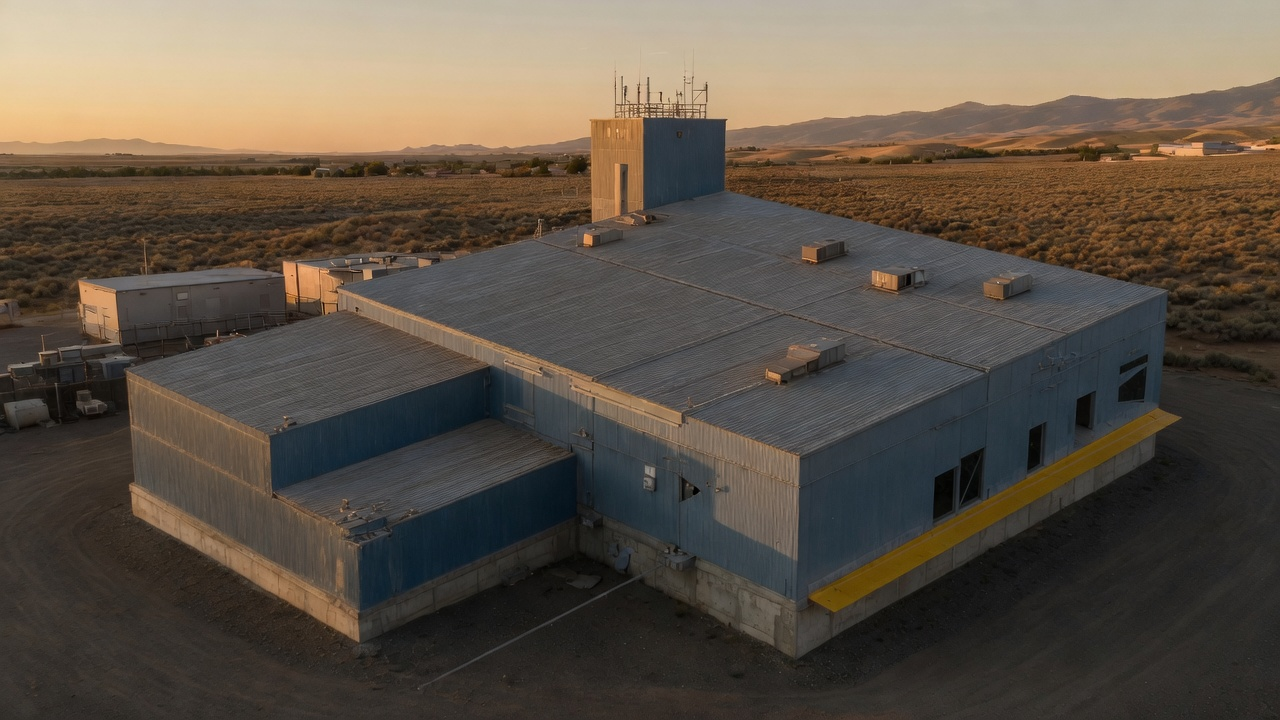
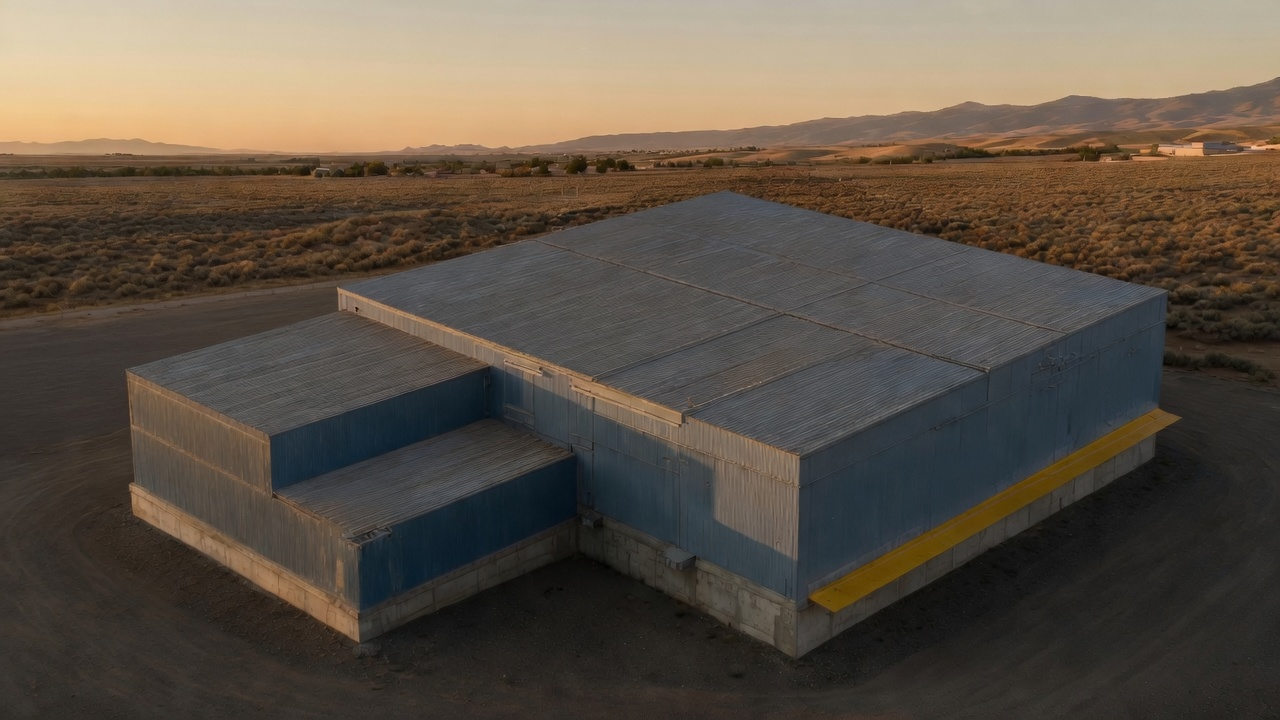
render_hero: hero match palette + canopy; exterior stills for split
Presentation tint (blue-gray walls, metal roof, yellow eave canopy) on
closed-envelope product isos. Library hero restaged without tower/AC.

diff --git a/packages/geometry/llmbim_geometry/render_hero.py b/packages/geometry/llmbim_geometry/render_hero.py
@@ -119,6 +119,7 @@ def render_mesh_png(
     wall_alpha: float = 0.22,
     ghost_roof: bool = False,
     roof_alpha: float = 0.45,
+    presentation_tint: bool = False,
 ) -> Path:
     """Painter-algorithm PNG of glTF triangles — same mesh the 3D viewer shows.
 
@@ -127,6 +128,7 @@ def render_mesh_png(
     ``ghost_walls``: draw wall/door/window materials translucent so structure
     reads through — full shell stays closed (no process-open iso cut).
     ``ghost_roof``: also light-ghost roof/slab (default off so roof reads solid).
+    ``presentation_tint``: blue-gray walls + metal roof for hero match stills.
     """
     import matplotlib
 
@@ -143,6 +145,7 @@ def render_mesh_png(
         wall_alpha=wall_alpha,
         ghost_roof=ghost_roof,
         roof_alpha=roof_alpha,
+        presentation_tint=presentation_tint,
     )
     out = Path(path)
     out.parent.mkdir(parents=True, exist_ok=True)
@@ -323,11 +326,32 @@ def _inject_closed_envelope(tris: list[_Tri]) -> list[_Tri]:
     return keep + shell
 
 
+def _inject_yellow_canopy(tris: list[_Tri], shell_tris: list[_Tri]) -> list[_Tri]:
+    """South/east eave canopy strip (hero match — yellow apron on photo)."""
+    x0, x1, y0, y1, z0, z1 = _shell_bounds(tris)
+    strip_h = 0.50
+    yb = y1 - strip_h - 0.08
+    yt = y1 - 0.06
+    xs = x0 + 0.32 * (x1 - x0)
+    xe = x1 - 0.04
+    zo = z0 - 1.15
+    zi = z0 + 0.04
+    # equip_gas keyed yellow; presentation_tint maps to canopy gold
+    return (
+        _quad((xs, yb, zo), (xe, yb, zo), (xe, yt, zo), (xs, yt, zo), "equip_gas")
+        + _quad((xs, yb, zi), (xs, yb, zo), (xs, yt, zo), (xs, yt, zi), "equip_gas")
+        + _quad((xe, yb, zo), (xe, yb, zi), (xe, yt, zi), (xe, yt, zo), "equip_gas")
+        + _quad((xs, yt, zo), (xe, yt, zo), (xe, yt, zi), (xs, yt, zi), "equip_gas")
+        + shell_tris
+    )
+
+
 def _exterior_product_tris(tris: list[_Tri]) -> list[_Tri]:
     """Closed exterior product mesh: roof + walls, no deep look into the hall.
 
     Drops interior MEP/process solids and most interior frame so primary isos
     are exterior 3/4s with ghosted walls — not section cuts into process.
+    No stack/tower, no rooftop AC (those are not in shell envelope).
     """
     closed = _inject_closed_envelope(tris)
     out: list[_Tri] = []
@@ -342,7 +366,7 @@ def _exterior_product_tris(tris: list[_Tri]) -> list[_Tri]:
         if k in ("beam", "column"):
             continue
         out.append((v0, v1, v2, key))
-    return out
+    return _inject_yellow_canopy(tris, out)
 
 
 def export_mesh_product_views(
@@ -431,8 +455,9 @@ def export_mesh_product_views(
             size=(1600, 1000) if "iso" in fname else (1600, 900),
             ghost_walls=ghost,
             # Light ghost on true walls only — shell reads closed
-            wall_alpha=0.55,
+            wall_alpha=0.52,
             ghost_roof=False,
+            presentation_tint=not use_open,
         )
         paths.append(p)
     man = {
@@ -557,6 +582,13 @@ def _apply(rows: tuple[_Vec3, _Vec3, _Vec3], v: _Vec3) -> _Vec3:
 _Face = tuple[float, tuple[_Vec2, _Vec2, _Vec2], str, float]
 
 
+# Hero-match presentation palette (blue-gray industrial shell)
+_PRESENT_WALL_RGB = (0.42, 0.52, 0.62)
+_PRESENT_ROOF_RGB = (0.38, 0.40, 0.43)
+_PRESENT_CANOPY_RGB = (0.90, 0.78, 0.18)
+_PRESENT_SLAB_RGB = (0.58, 0.58, 0.60)
+
+
 def _project_and_shade(
     tris: list[_Tri],
     rows: tuple[_Vec3, _Vec3, _Vec3],
@@ -565,6 +597,7 @@ def _project_and_shade(
     wall_alpha: float = 0.22,
     ghost_roof: bool = False,
     roof_alpha: float = 0.45,
+    presentation_tint: bool = False,
 ) -> list[_Face]:
     faces: list[_Face] = []
     for v0, v1, v2, key in tris:
@@ -598,9 +631,18 @@ def _project_and_shade(
         # Ghost walls (vertical enclosure + facility massing shells)
         alpha = 1.0
         rgb0, rgb1, rgb2 = float(base[0]), float(base[1]), float(base[2])
+        if presentation_tint:
+            if k in _GHOST_WALL_KEYS or k.startswith("wall") or k == "equip_shell":
+                rgb0, rgb1, rgb2 = _PRESENT_WALL_RGB
+            elif k == "roof":
+                rgb0, rgb1, rgb2 = _PRESENT_ROOF_RGB
+            elif k in ("equip_gas", "equip_label"):  # canopy / accent
+                rgb0, rgb1, rgb2 = _PRESENT_CANOPY_RGB
+            elif k in ("slab", "concrete"):
+                rgb0, rgb1, rgb2 = _PRESENT_SLAB_RGB
         if ghost_walls and (k in _GHOST_WALL_KEYS or k.startswith("wall")):
             alpha = float(wall_alpha)
-            if k in _GHOST_NEUTRAL_KEYS:
+            if k in _GHOST_NEUTRAL_KEYS and not presentation_tint:
                 rgb0, rgb1, rgb2 = _GHOST_NEUTRAL_RGB
         elif (ghost_walls and ghost_roof) and (
             k in _GHOST_SHELL_KEYS or k.startswith("roof") or k.startswith("slab")
